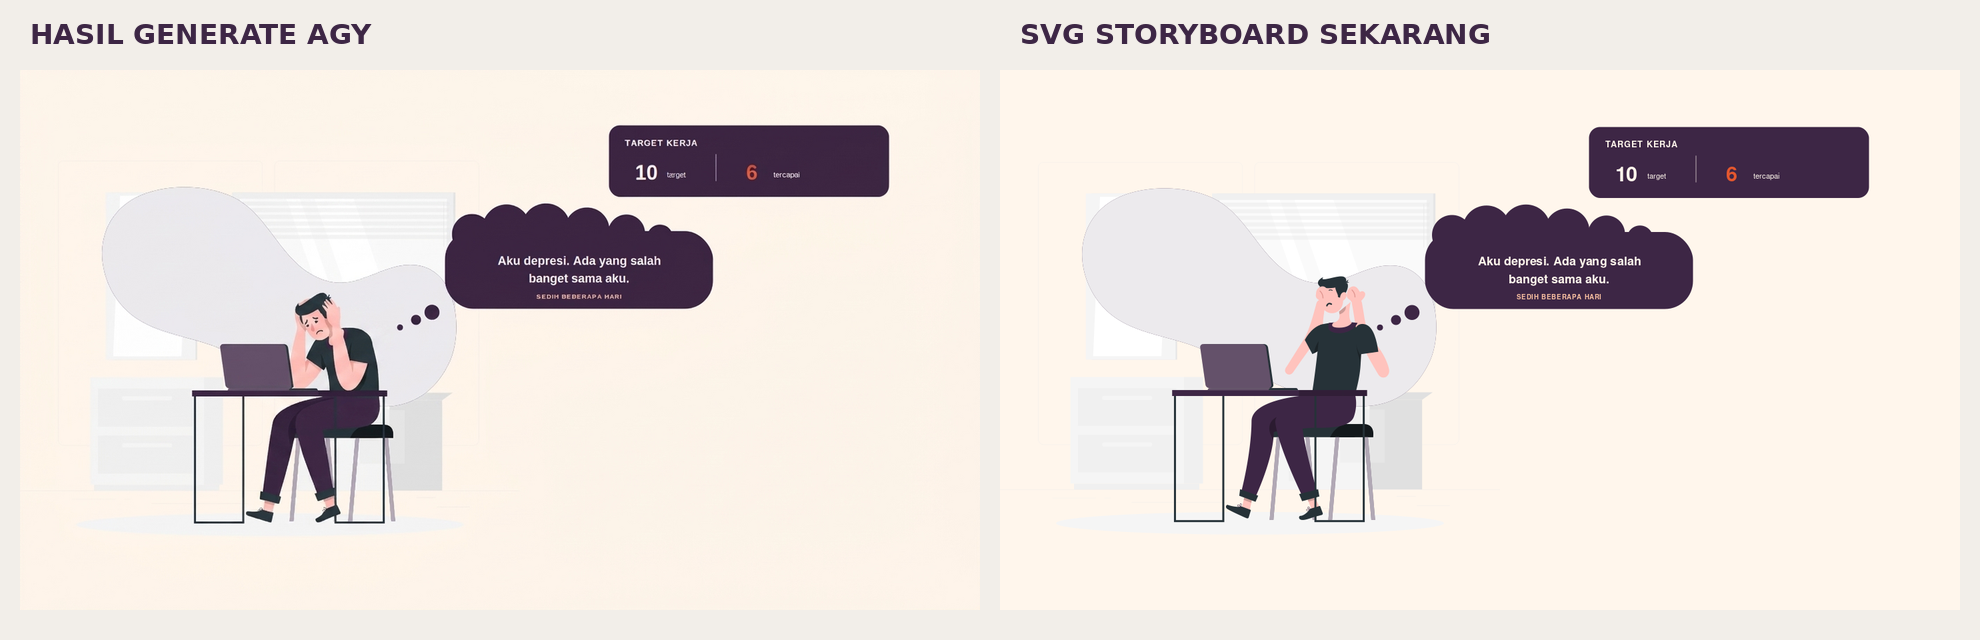
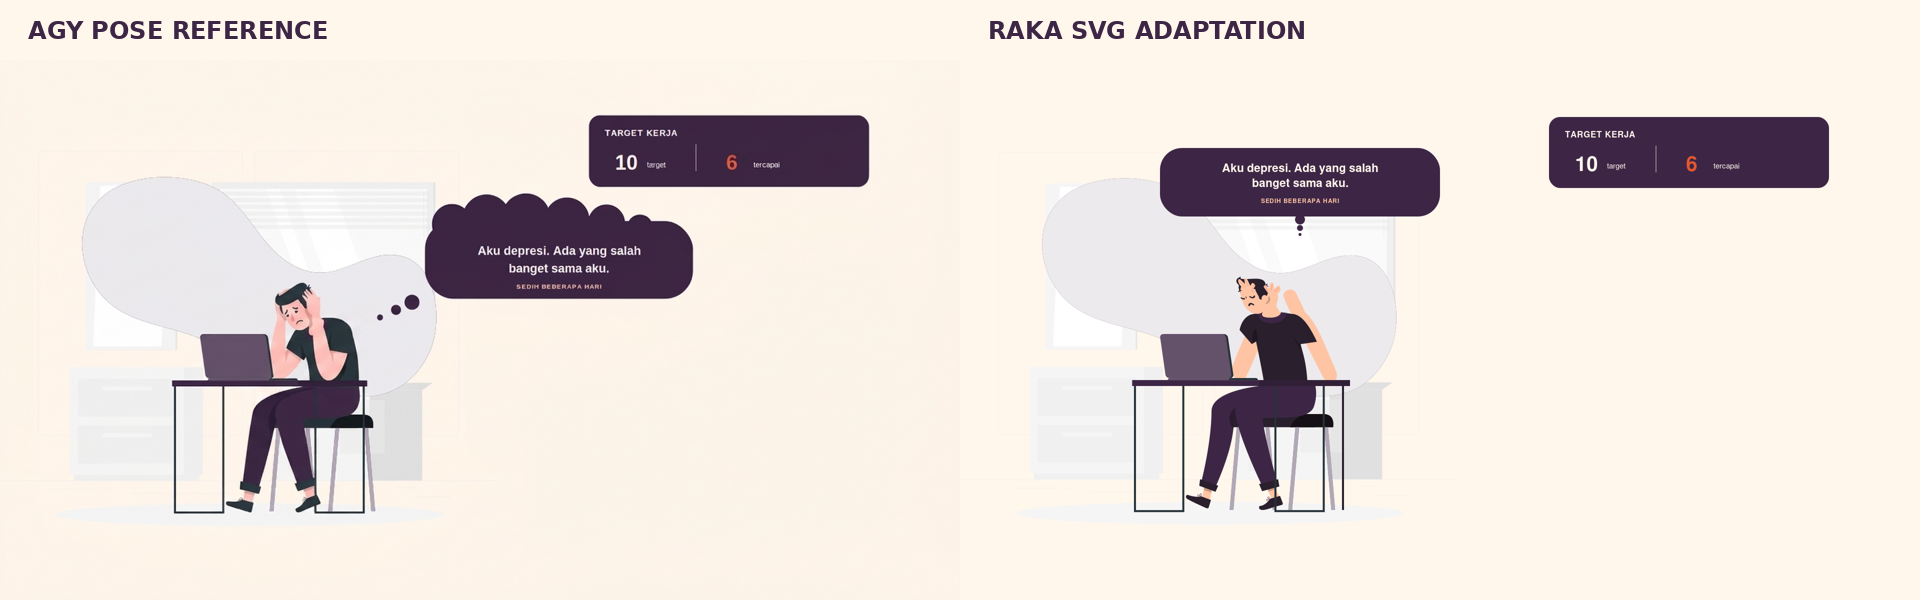
Refine Scene 4A Raka pose

diff --git a/storyboard/index.html b/storyboard/index.html
@@ -33,12 +33,12 @@
 <article class="board-row">
           <header class="row-meta"><span class="scene-number">03</span><span class="time">01:05–01:55</span><h2>When Normal Emotions Become Labels</h2><p>Tiga case terpisah, masing-masing memakai satu ilustrasi dan satu latar warna sendiri: pesan belum dibalas; Raka dari frame 4A sedih setelah gagal mencapai target; dua orang berbeda pendapat. Koreksi sage muncul saat VO sampai ‘Padahal...’. Frame terakhir menampilkan kalimat penutup di tengah.</p></header>
           <div class="row-frame"><div class="case-frame-grid"><section class="frame-card"><div class="frame-label"><b>03A · Case 1 · Unanswered Message</b><span>01:05–01:20 · 15s</span></div><a href="scenes/scene-03a-case-01-avoidant.svg" target="_blank" aria-label="Open editable SVG for 03A"><img src="scenes/scene-03a-case-01-avoidant.svg" alt="Case 1 · Unanswered Message animation frame"></a><div class="file-links"><a href="scenes/scene-03a-case-01-avoidant.svg" download>Download editable SVG</a><a href="previews/scene-03a-case-01-avoidant.png" download>Download PNG preview</a></div></section><section class="frame-card"><div class="frame-label"><b>03B · Case 2 · Sadness After Failure</b><span>01:20–01:35 · 15s</span></div><a href="scenes/scene-03b-case-02-depressed.svg" target="_blank" aria-label="Open editable SVG for 03B"><img src="scenes/scene-03b-case-02-depressed.svg" alt="Case 2 · Sadness After Failure animation frame"></a><div class="file-links"><a href="scenes/scene-03b-case-02-depressed.svg" download>Download editable SVG</a><a href="previews/scene-03b-case-02-depressed.png" download>Download PNG preview</a></div></section><section class="frame-card"><div class="frame-label"><b>03C · Case 3 · Disagreement</b><span>01:35–01:50 · 15s</span></div><a href="scenes/scene-03c-case-03-gaslighting.svg" target="_blank" aria-label="Open editable SVG for 03C"><img src="scenes/scene-03c-case-03-gaslighting.svg" alt="Case 3 · Disagreement animation frame"></a><div class="file-links"><a href="scenes/scene-03c-case-03-gaslighting.svg" download>Download editable SVG</a><a href="previews/scene-03c-case-03-gaslighting.png" download>Download PNG preview</a></div></section><section class="frame-card"><div class="frame-label"><b>03D · One Behavior · Closing On-Screen Text</b><span>01:50–01:55 · 5s</span></div><a href="scenes/scene-03d-combined-on-screen-text.svg" target="_blank" aria-label="Open editable SVG for 03D"><img src="scenes/scene-03d-combined-on-screen-text.svg" alt="One Behavior · Closing On-Screen Text animation frame"></a><div class="file-links"><a href="scenes/scene-03d-combined-on-screen-text.svg" download>Download editable SVG</a><a href="previews/scene-03d-combined-on-screen-text.png" download>Download PNG preview</a></div></section></div></div>
-          <dl class="row-notes"><div><dt>On-screen text</dt><dd>03A · They're avoidant! · Mungkin sibuk, kelelahan, atau belum sempat.<br>03B · I'm depressed! · Penanda target tidak tercapai · Sedih setelah gagal itu emosi yang normal.<br>03C · You're gaslighting me! · Beda pendapat bukan otomatis gaslighting.<br>03D · One behavior ≠ A psychological diagnosis.</dd></div><div><dt>Motion / camera</dt><dd>Tiga case tampil sendiri-sendiri. Di tiap case, bubble label terracotta muncul dahulu; saat VO mencapai ‘Padahal...’, kotak koreksi sage masuk. 03B memakai Raka dari frame 4A dan mempertahankan penanda target gagal sebagai layer terpisah. Frame 03D menyatukan komposisi dan menampilkan teks penutup.</dd></div><div><dt>Script / voice-over</dt><dd><strong>03A · 01:05–01:20 · 15 detik</strong><br>Contoh pertama. Teman kita belum membalas chat selama beberapa jam. Lalu kita langsung menyimpulkan bahwa dia punya avoidant attachment. Padahal, mungkin dia sedang sibuk, kelelahan, atau memang belum sempat membalas. One situation doesn&#x27;t define someone&#x27;s entire personality.<br><strong>03B · 01:20–01:35 · 15 detik</strong><br>Contoh kedua. Kita merasa sedih setelah gagal mencapai target. Kemudian langsung menyebut diri sendiri mengalami depresi. Padahal, sedih merupakan emosi manusia yang normal. Kesedihan setelah mengalami kegagalan tidak otomatis menunjukkan adanya gangguan depresi.<br><strong>03C · 01:35–01:50 · 15 detik</strong><br>Contoh ketiga. Seseorang tidak setuju dengan pendapat kita, lalu langsung dituduh melakukan gaslighting. Padahal, disagreement atau perbedaan pendapat tidak otomatis termasuk gaslighting. Kita perlu melihat konteks, pola perilaku, dan bagaimana tindakan tersebut terjadi.</dd></div><div><dt>Assets & roles</dt><dd>Texting · Rafiki: teman mengirim pesan yang hanya dibaca, tanpa balasan.<br>Co-workers · Rafiki: Raka yang sama dengan 4B/4A dipakai dengan pose stres; suasana meja belajar dan kartu target gagal tetap terpisah sebagai layer komposisi.<br>Couple Stress · Rafiki: dua orang tidak sependapat. Semua asset credit dan komposisi tetap berada di luar artwork frame.</dd><p class="asset-sources"><a href="https://storyset.com/illustration/texting/rafiki" target="_blank" rel="noreferrer">Texting ↗</a> · <a href="https://storyset.com/illustration/student-stress/rafiki" target="_blank" rel="noreferrer">Student Stress · Rafiki ↗</a> · <a href="https://storyset.com/illustration/couple-stress/rafiki" target="_blank" rel="noreferrer">Couple Stress ↗</a> · <a href="https://storyset.com/illustration/co-workers/rafiki" target="_blank" rel="noreferrer">Co-workers · Rafiki ↗</a></p></div></dl>
+          <dl class="row-notes"><div><dt>On-screen text</dt><dd>03A · They're avoidant! · Mungkin sibuk, kelelahan, atau belum sempat.<br>03B · I'm depressed! · Penanda target tidak tercapai · Sedih setelah gagal itu emosi yang normal.<br>03C · You're gaslighting me! · Beda pendapat bukan otomatis gaslighting.<br>03D · One behavior ≠ A psychological diagnosis.</dd></div><div><dt>Motion / camera</dt><dd>Tiga case tampil sendiri-sendiri. Di tiap case, bubble label terracotta muncul dahulu; saat VO mencapai ‘Padahal...’, kotak koreksi sage masuk. 03B memakai Raka dari frame 4A dan mempertahankan penanda target gagal sebagai layer terpisah. Frame 03D menyatukan komposisi dan menampilkan teks penutup.</dd></div><div><dt>Script / voice-over</dt><dd><strong>03A · 01:05–01:20 · 15 detik</strong><br>Contoh pertama. Teman kita belum membalas chat selama beberapa jam. Lalu kita langsung menyimpulkan bahwa dia punya avoidant attachment. Padahal, mungkin dia sedang sibuk, kelelahan, atau memang belum sempat membalas. One situation doesn&#x27;t define someone&#x27;s entire personality.<br><strong>03B · 01:20–01:35 · 15 detik</strong><br>Contoh kedua. Kita merasa sedih setelah gagal mencapai target. Kemudian langsung menyebut diri sendiri mengalami depresi. Padahal, sedih merupakan emosi manusia yang normal. Kesedihan setelah mengalami kegagalan tidak otomatis menunjukkan adanya gangguan depresi.<br><strong>03C · 01:35–01:50 · 15 detik</strong><br>Contoh ketiga. Seseorang tidak setuju dengan pendapat kita, lalu langsung dituduh melakukan gaslighting. Padahal, disagreement atau perbedaan pendapat tidak otomatis termasuk gaslighting. Kita perlu melihat konteks, pola perilaku, dan bagaimana tindakan tersebut terjadi.</dd></div><div><dt>Assets & roles</dt><dd>Texting · Rafiki: teman mengirim pesan yang hanya dibaca, tanpa balasan.<br>Co-workers · Rafiki: Raka yang sama dengan 4B/4A dipakai dengan pose stres; suasana meja belajar dan kartu target gagal tetap terpisah sebagai layer komposisi.<br>Couple Stress · Rafiki: dua orang tidak sependapat. Semua asset credit dan komposisi tetap berada di luar artwork frame.</dd><p class="asset-sources"><a href="https://storyset.com/illustration/texting/rafiki" target="_blank" rel="noreferrer">Texting ↗</a> · <a href="https://storyset.com/illustration/couple-stress/rafiki" target="_blank" rel="noreferrer">Couple Stress ↗</a> · <a href="https://storyset.com/illustration/co-workers/rafiki" target="_blank" rel="noreferrer">Co-workers · Rafiki ↗</a></p></div></dl>
         </article>
 <article class="board-row">
           <header class="row-meta"><span class="scene-number">04</span><span class="time">01:55–02:35</span><h2>Why Does It Matter?</h2><p>Satu cerita sebab-akibat Raka dan Dina bergerak dalam lima beat: Raka salah memahami emosinya → konflik saat rapat → ia menyimpulkan Dina narsistik tanpa bukti → sebuah post menyebarkan stigma dan Raka mengeluarkan Dina dari grup → Dina sendirian tanpa Raka, ditutup teks layar.</p></header>
           <div class="row-frame"><div class="case-frame-grid"><section class="frame-card"><div class="frame-label"><b>4A · Raka Mislabels His Own Sadness</b><span>01:55–02:07 · 12s</span></div><a href="scenes/scene-4a-self-misunderstanding.svg" target="_blank" aria-label="Open editable SVG for 4A"><img src="scenes/scene-4a-self-misunderstanding.svg" alt="Raka Mislabels His Own Sadness animation frame"></a><div class="file-links"><a href="scenes/scene-4a-self-misunderstanding.svg" download>Download editable SVG</a><a href="previews/scene-4a-self-misunderstanding.png" download>Download PNG preview</a></div></section><section class="frame-card"><div class="frame-label"><b>4B · Misjudgment Becomes Conflict</b><span>02:07–02:12 · 5s</span></div><a href="scenes/scene-4b-conflict-in-the-meeting.svg" target="_blank" aria-label="Open editable SVG for 4B"><img src="scenes/scene-4b-conflict-in-the-meeting.svg" alt="Misjudgment Becomes Conflict animation frame"></a><div class="file-links"><a href="scenes/scene-4b-conflict-in-the-meeting.svg" download>Download editable SVG</a><a href="previews/scene-4b-conflict-in-the-meeting.png" download>Download PNG preview</a></div></section><section class="frame-card"><div class="frame-label"><b>4B2 · One Disagreement Becomes a Label</b><span>02:12–02:17 · 5s</span></div><a href="scenes/scene-4b2-narcissistic-label.svg" target="_blank" aria-label="Open editable SVG for 4B2"><img src="scenes/scene-4b2-narcissistic-label.svg" alt="One Disagreement Becomes a Label animation frame"></a><div class="file-links"><a href="scenes/scene-4b2-narcissistic-label.svg" download>Download editable SVG</a><a href="previews/scene-4b2-narcissistic-label.png" download>Download PNG preview</a></div></section><section class="frame-card"><div class="frame-label"><b>4C · Stigma Spreads Through the Group</b><span>02:17–02:27 · 10s</span></div><a href="scenes/scene-4c-stigma-and-removal.svg" target="_blank" aria-label="Open editable SVG for 4C"><img src="scenes/scene-4c-stigma-and-removal.svg" alt="Stigma Spreads Through the Group animation frame"></a><div class="file-links"><a href="scenes/scene-4c-stigma-and-removal.svg" download>Download editable SVG</a><a href="previews/scene-4c-stigma-and-removal.png" download>Download PNG preview</a></div></section><section class="frame-card"><div class="frame-label"><b>4D · Dina Alone · Closing On-Screen Text</b><span>02:27–02:35 · 8s</span></div><a href="scenes/scene-4d-dina-alone-closing-text.svg" target="_blank" aria-label="Open editable SVG for 4D"><img src="scenes/scene-4d-dina-alone-closing-text.svg" alt="Dina Alone · Closing On-Screen Text animation frame"></a><div class="file-links"><a href="scenes/scene-4d-dina-alone-closing-text.svg" download>Download editable SVG</a><a href="previews/scene-4d-dina-alone-closing-text.png" download>Download PNG preview</a></div></section></div></div>
-          <dl class="row-notes"><div><dt>On-screen text</dt><dd>4A · Aku depresi. Ada yang salah banget sama aku.<br>4B · Raka: Kamu selalu bikin aku merasa salah! · Dina: Aku cuma kasih masukan. Jangan baper terus, deh.<br>4B2 · Dia narsistik. · Cap: NARSISTIK.<br>4C · Hati-hati sama Dina, dia narsistik. · Biar yang lain aman. · Dina dikeluarkan dari grup; post menyebar menjadi notifikasi.<br>4D · Don't reduce people to labels.</dd></div><div><dt>Motion / camera</dt><dd>Transisi objek tetap mengalir: bubble self-label menjadi awan pikiran dan debat → berubah menjadi cap NARSISTIK → cap menyebar sebagai post dan rantai notifikasi → berakhir pada Dina sendirian dengan bubble ‘...’ dan teks layar. Raka tidak muncul di frame 4D.</dd></div><div><dt>Script / voice-over</dt><dd><strong>4A · 01:55–02:07 · 12 detik</strong><br>Now, why should we care? First, misusing psychological terms can make us misunderstand our own emotions. Normal feelings like sadness, fear, or disappointment can feel like something is seriously wrong with us.<br><strong>4B · 02:07–02:12 · 5 detik</strong><br>Second, it can create unnecessary conflict.<br><strong>4B2 · 02:12–02:17 · 5 detik</strong><br>Imagine labeling someone as narcissistic just because they disagree with you.<br><strong>4C · 02:17–02:27 · 10 detik</strong><br>And third, it can reinforce stigma. Mental health conditions are complex experiences, not simply labels we can attach to someone based on one behavior.<br><strong>4D · 02:27–02:35 · 8 detik</strong><br>Remember, psychology is more than just a collection of viral terms. It is a scientific discipline that requires context, evidence, and careful understanding.</dd></div><div><dt>Assets & roles</dt><dd>4A · Co-workers · Rafiki: Raka sendiri di meja, kepala menunduk dan kedua tangan memegang kepala. Ponsel dari pose sumber dihilangkan; pose baru mengubah 20/54 (37,0%) elemen karakter, 34 tetap utuh. Palet storyboard tetap dipakai. Pose akhir tetap berupa path SVG yang dapat diedit; referensi pose dibuat dengan Agy. Kartu target dan label pikiran adalah overlay terpisah.<br>4B dan 4B2 · Co-workers · Rafiki: karakter Raka dan Dina di rapat serta cap NARSISTIK. Bubble dialog 4B tanpa panah/garis penghubung; cap tetap kesimpulan Raka, bukan diagnosis.<br>4C · Post peringatan dan rantai notifikasi dibuat sebagai layer SVG editable di sisi kanan komposisi.<br>4D · Co-workers · Rafiki Dina tetap menjadi satu-satunya karakter; wash cream, area meja yang ditutup, bubble ‘...’, notifikasi tak terjawab, bayangan label memudar, dan teks penutup adalah layer komposisi terpisah.</dd><p class="asset-sources"><a href="https://storyset.com/illustration/co-workers/rafiki" target="_blank" rel="noreferrer">Co-workers · Rafiki ↗</a></p></div></dl>
+          <dl class="row-notes"><div><dt>On-screen text</dt><dd>4A · Aku depresi. Ada yang salah banget sama aku.<br>4B · Raka: Kamu selalu bikin aku merasa salah! · Dina: Aku cuma kasih masukan. Jangan baper terus, deh.<br>4B2 · Dia narsistik. · Cap: NARSISTIK.<br>4C · Hati-hati sama Dina, dia narsistik. · Biar yang lain aman. · Dina dikeluarkan dari grup; post menyebar menjadi notifikasi.<br>4D · Don't reduce people to labels.</dd></div><div><dt>Motion / camera</dt><dd>Transisi objek tetap mengalir: bubble self-label menjadi awan pikiran dan debat → berubah menjadi cap NARSISTIK → cap menyebar sebagai post dan rantai notifikasi → berakhir pada Dina sendirian dengan bubble ‘...’ dan teks layar. Raka tidak muncul di frame 4D.</dd></div><div><dt>Script / voice-over</dt><dd><strong>4A · 01:55–02:07 · 12 detik</strong><br>Now, why should we care? First, misusing psychological terms can make us misunderstand our own emotions. Normal feelings like sadness, fear, or disappointment can feel like something is seriously wrong with us.<br><strong>4B · 02:07–02:12 · 5 detik</strong><br>Second, it can create unnecessary conflict.<br><strong>4B2 · 02:12–02:17 · 5 detik</strong><br>Imagine labeling someone as narcissistic just because they disagree with you.<br><strong>4C · 02:17–02:27 · 10 detik</strong><br>And third, it can reinforce stigma. Mental health conditions are complex experiences, not simply labels we can attach to someone based on one behavior.<br><strong>4D · 02:27–02:35 · 8 detik</strong><br>Remember, psychology is more than just a collection of viral terms. It is a scientific discipline that requires context, evidence, and careful understanding.</dd></div><div><dt>Assets & roles</dt><dd>4A · Co-workers · Rafiki: Raka sendiri di meja dengan kepala menunduk, kedua tangan di kepala, dan siku bertumpu pada meja. Path torso, lengan, serta tangan diedit sebagai pose statis; wajah, rambut, pakaian, kaki duduk, kursi, dan ilustrasi kantor tetap memakai Raka dari Co-workers. Kartu target dan label pikiran adalah overlay terpisah.<br>4B dan 4B2 · Co-workers · Rafiki: karakter Raka dan Dina di rapat serta cap NARSISTIK. Bubble dialog 4B tanpa panah/garis penghubung; cap tetap kesimpulan Raka, bukan diagnosis.<br>4C · Post peringatan dan rantai notifikasi dibuat sebagai layer SVG editable di sisi kanan komposisi.<br>4D · Co-workers · Rafiki Dina tetap menjadi satu-satunya karakter; wash cream, area meja yang ditutup, bubble ‘...’, notifikasi tak terjawab, bayangan label memudar, dan teks penutup adalah layer komposisi terpisah.</dd><p class="asset-sources"><a href="https://storyset.com/illustration/co-workers/rafiki" target="_blank" rel="noreferrer">Co-workers · Rafiki ↗</a></p></div></dl>
         </article>
 <article class="board-row">
           <header class="row-meta"><span class="scene-number">05</span><span class="time">02:35–03:20</span><h2>The Ethical Side of Psychology</h2><p>Satu komposisi animasi layar penuh: dokumen digital dan riset di kiri, empat kartu pasal berurutan di kanan, lalu pita dasar ilmiah dan kehati-hatian menutup komposisi.</p></header>
@@ -56,6 +56,6 @@
           <dl class="row-notes"><div><dt>On-screen text</dt><dd>THINK BEFORE YOU LABEL.<br>Stay curious. Stay kind!</dd></div><div><dt>Motion / camera</dt><dd>Istilah viral meredup, empat ekspresi menyala bergantian, kemudian ‘THINK BEFORE YOU LABEL.’ dan ‘Stay curious. Stay kind!’ masuk sebagai teks akhir. Tidak ada slot produksi atau identitas pembuat di artwork.</dd></div><div><dt>Script / voice-over</dt><dd>Psychology should help us understand people, not reduce them to labels. So, before you say it, make sure you understand it. Because not every emotion is a disorder, and not every behavior needs a psychological label. Think before you label. Stay curious, stay kind!</dd></div><div><dt>Assets & roles</dt><dd>Social interaction-rafiki.svg: kelompok dengan ekspresi beragam.<br>Empat ikon emosi dan end card dibuat sebagai vektor.</dd><p class="asset-sources"><a href="https://storyset.com/illustration/social-interaction/rafiki" target="_blank" rel="noreferrer">Social Interaction ↗</a></p></div></dl>
         </article>
 </section>
-<section class="audit"><div><h2>Visual audit</h2><p>Scene 3 remains three independent case frames and a centered closing frame. In Scene 4A, the Agy-generated pose reference guides a vector edit of Co-workers · Rafiki Raka: 20/54 Raka elements changed or omitted for the pose (37.0%); 34 remain unchanged from the storyboard base. Dina is omitted, the handheld device is removed, and the editable SVG shows Raka bowed toward the table with both hands on his head. Scene 4B, 4B2, and 4C use the full Co-workers illustration with Raka and Dina together. Target and thought-label cards remain separate editable overlays. Dialog connector arrows are removed from 4B. The warning post and notifications are separate overlays. Domino tiles have been removed from every Scene 4 frame. Frame 4D contains Dina alone. Dina's Co-workers source in 4D changes 57/158 drawable elements (36.1%), leaving 101/158 unchanged. Scene 1 uses only the Character object from People Creating Robot · Rafiki. Of its 41 drawable elements, six are cropped and six clothing paths recolored; 29/41 (70.7%) remain unchanged. The robot, external props, panels, background, presenter frame, and pointer are removed; the small tablet integrated with the woman’s pose remains. Four public-comment groups use pseudonyms. Scene 2B contains 56 independently editable handwritten hashtags (six script terms plus fifty related terms) with accelerating appearance timings. All retained frames were rendered and inspected.</p></div><div><h2>Editing &amp; attribution</h2><p>Open or download each SVG to edit its vector layers and text. The source bundle contains the HTML board, all SVG frames, source illustration assets, and the Caveat font/license. The <a href="https://storyset.com/illustration/people-creating-robot/rafiki" target="_blank" rel="noreferrer">People Creating Robot · Rafiki</a> presenter and <a href="https://storyset.com/illustration/co-workers/rafiki" target="_blank" rel="noreferrer">Co-workers · Rafiki</a> and <a href="https://storyset.com/illustration/student-stress/rafiki" target="_blank" rel="noreferrer">Student Stress · Rafiki</a> are free with attribution. <a href="https://github.com/google/fonts/tree/main/ofl/caveat" target="_blank" rel="noreferrer">Caveat</a> is distributed under SIL OFL 1.1; cite Storyset when publishing and review the <a href="https://storyset.com/terms" target="_blank" rel="noreferrer">Storyset terms</a>.</p></div></section>
+<section class="audit"><div><h2>Visual audit</h2><p>Scene 3 remains three independent case frames and a centered closing frame. In Scene 4A, the Agy pose reference guides an editable vector adaptation of Raka from Co-workers · Rafiki. The same Raka face, hair, clothes, seated lower body, chair, and office source illustration remain; the upper body, arms, and hands are adjusted for the bowed, hands-on-head pose. The target card and compact thought label are separate layers. The pose audit checks the body silhouette, hand-to-head contact, elbow-to-desk contact, and SVG draw order; the side-by-side comparison is available in the <a href="previews/scene-4a-agy-vs-svg.png">Agy and Raka SVG pose audit</a>. Scene 4B, 4B2, and 4C use the full Co-workers illustration with Raka and Dina together. Target and thought-label cards remain separate editable overlays. Dialog connector arrows are removed from 4B. The warning post and notifications are separate overlays. Domino tiles have been removed from every Scene 4 frame. Frame 4D contains Dina alone. Dina's Co-workers source in 4D changes 57/158 drawable elements (36.1%), leaving 101/158 unchanged. Scene 1 uses only the Character object from People Creating Robot · Rafiki. Of its 41 drawable elements, six are cropped and six clothing paths recolored; 29/41 (70.7%) remain unchanged. The robot, external props, panels, background, presenter frame, and pointer are removed; the small tablet integrated with the woman’s pose remains. Four public-comment groups use pseudonyms. Scene 2B contains 56 independently editable handwritten hashtags (six script terms plus fifty related terms) with accelerating appearance timings. All retained frames were rendered and inspected.</p></div><div><h2>Editing &amp; attribution</h2><p>Open or download each SVG to edit its vector layers and text. The source bundle contains the HTML board, all SVG frames, source illustration assets, and the Caveat font/license. The <a href="https://storyset.com/illustration/people-creating-robot/rafiki" target="_blank" rel="noreferrer">People Creating Robot · Rafiki</a> presenter and <a href="https://storyset.com/illustration/co-workers/rafiki" target="_blank" rel="noreferrer">Co-workers · Rafiki</a> are free with attribution. <a href="https://github.com/google/fonts/tree/main/ofl/caveat" target="_blank" rel="noreferrer">Caveat</a> is distributed under SIL OFL 1.1; cite Storyset when publishing and review the <a href="https://storyset.com/terms" target="_blank" rel="noreferrer">Storyset terms</a>.</p></div></section>
 <footer class="footer">Scene 1 isolates the woman Character object from the credited Storyset illustration in a centered half-body crop, without the robot, external props, pointer, or presenter frame. Her small held tablet stays as part of the source pose. Scene backgrounds, public-comment cards, cloud words, labels, cards, connectors, notifications, and text are editable SVG layers. Agy provided a pose reference for Scene 4A; the final frame retains editable source-based SVG artwork.</footer>
 </main></body></html>

diff --git a/AGENTS.md b/AGENTS.md
@@ -15,7 +15,7 @@ This is a single-context repo. See `docs/agents/domain.md`.
 ### Storyboard illustrations
 
 - Use existing downloadable Storyset SVGs for characters and illustrated situations. Any Storyset style may be used when it fits; prefer visual continuity with nearby scenes.
-- Do not generate character art or draw characters from scratch. When adapting a source illustration, change or omit fewer than 40% of its original drawable SVG elements; preserve at least 60% unchanged. Count altered or omitted source paths and shapes against all drawable source elements. If the fit needs 40% or more changes, choose a closer asset.
+- Do not generate character art or draw characters from scratch. Adapt existing Storyset character SVG shapes as needed to fit the scene while keeping the source character recognizable and retaining its visual style.
 - Add audience-facing text, score cards, and backgrounds as separate composition layers around the source illustration.
 - When a character holds a paper for themselves, orient the paper toward the character; put audience-readable grades or notes in a separate overlay.
 - Credit each Storyset asset with its source link in the storyboard.
